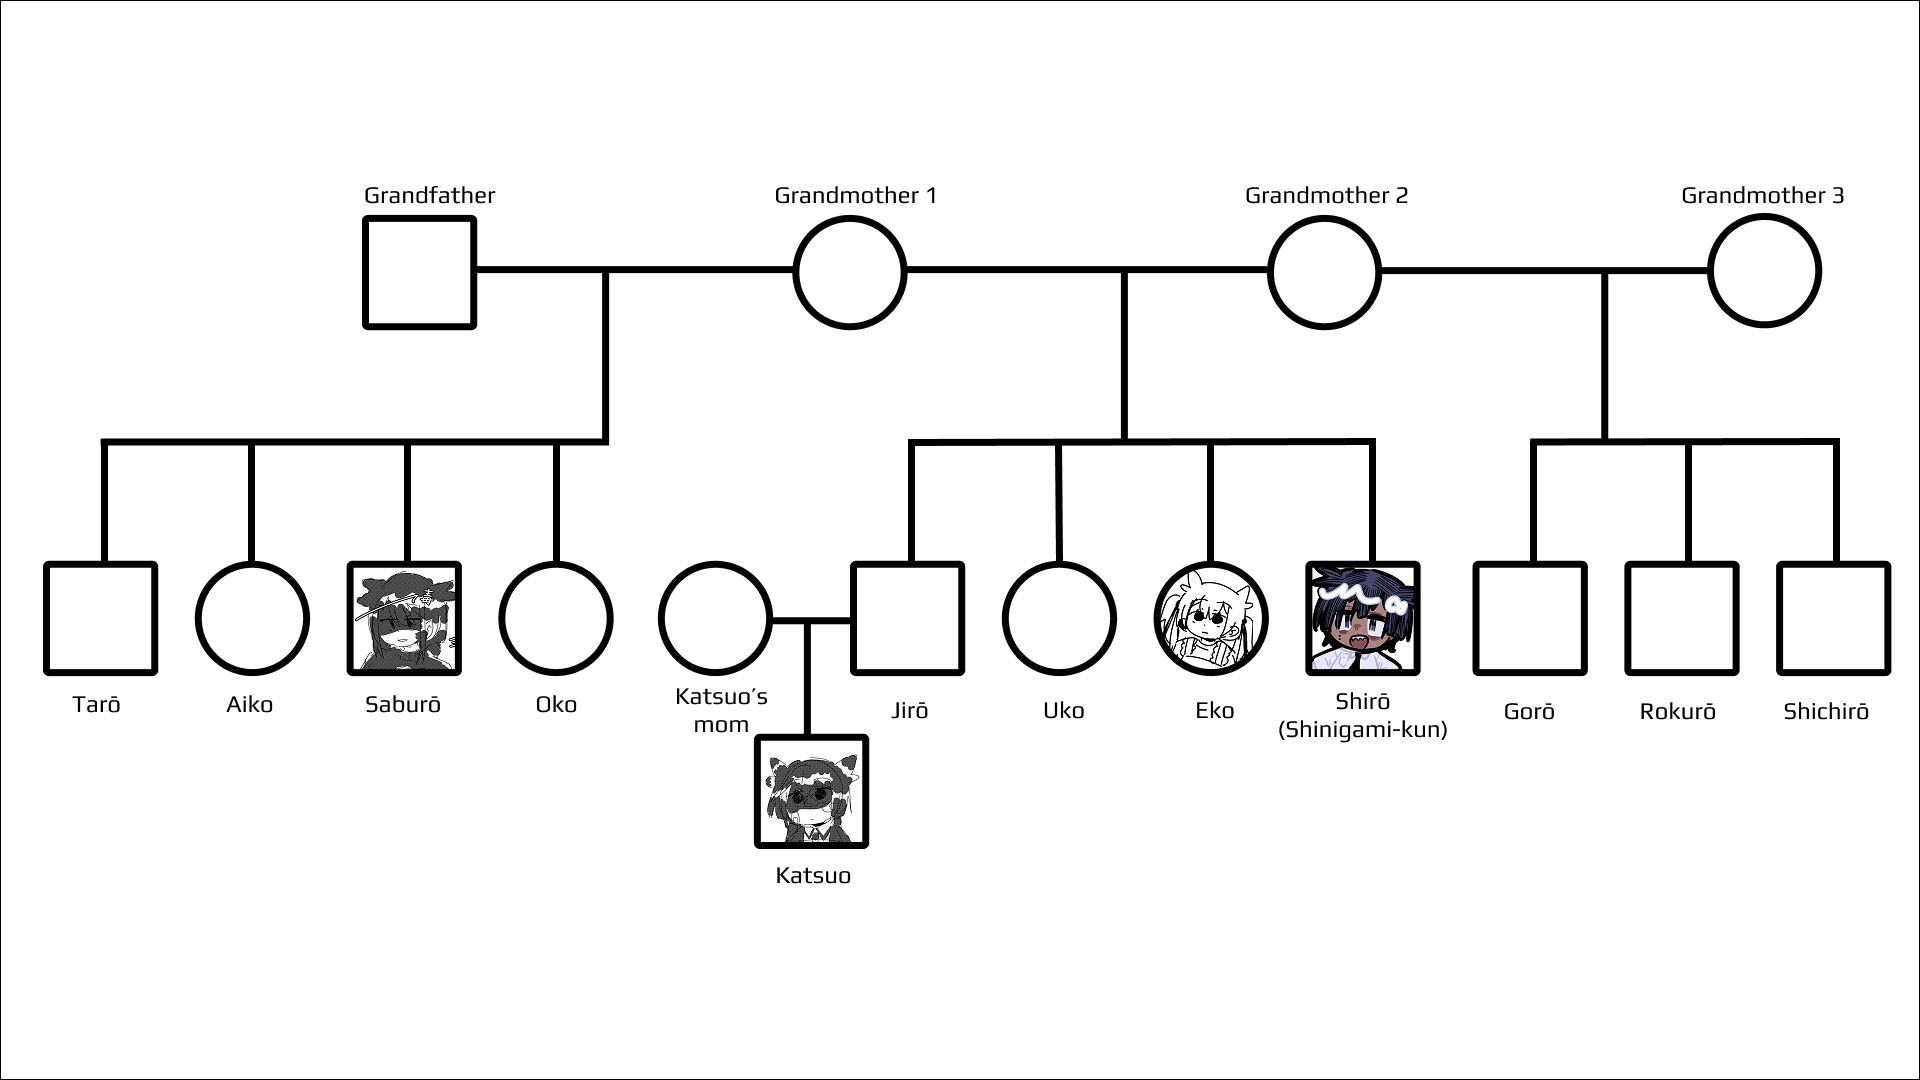
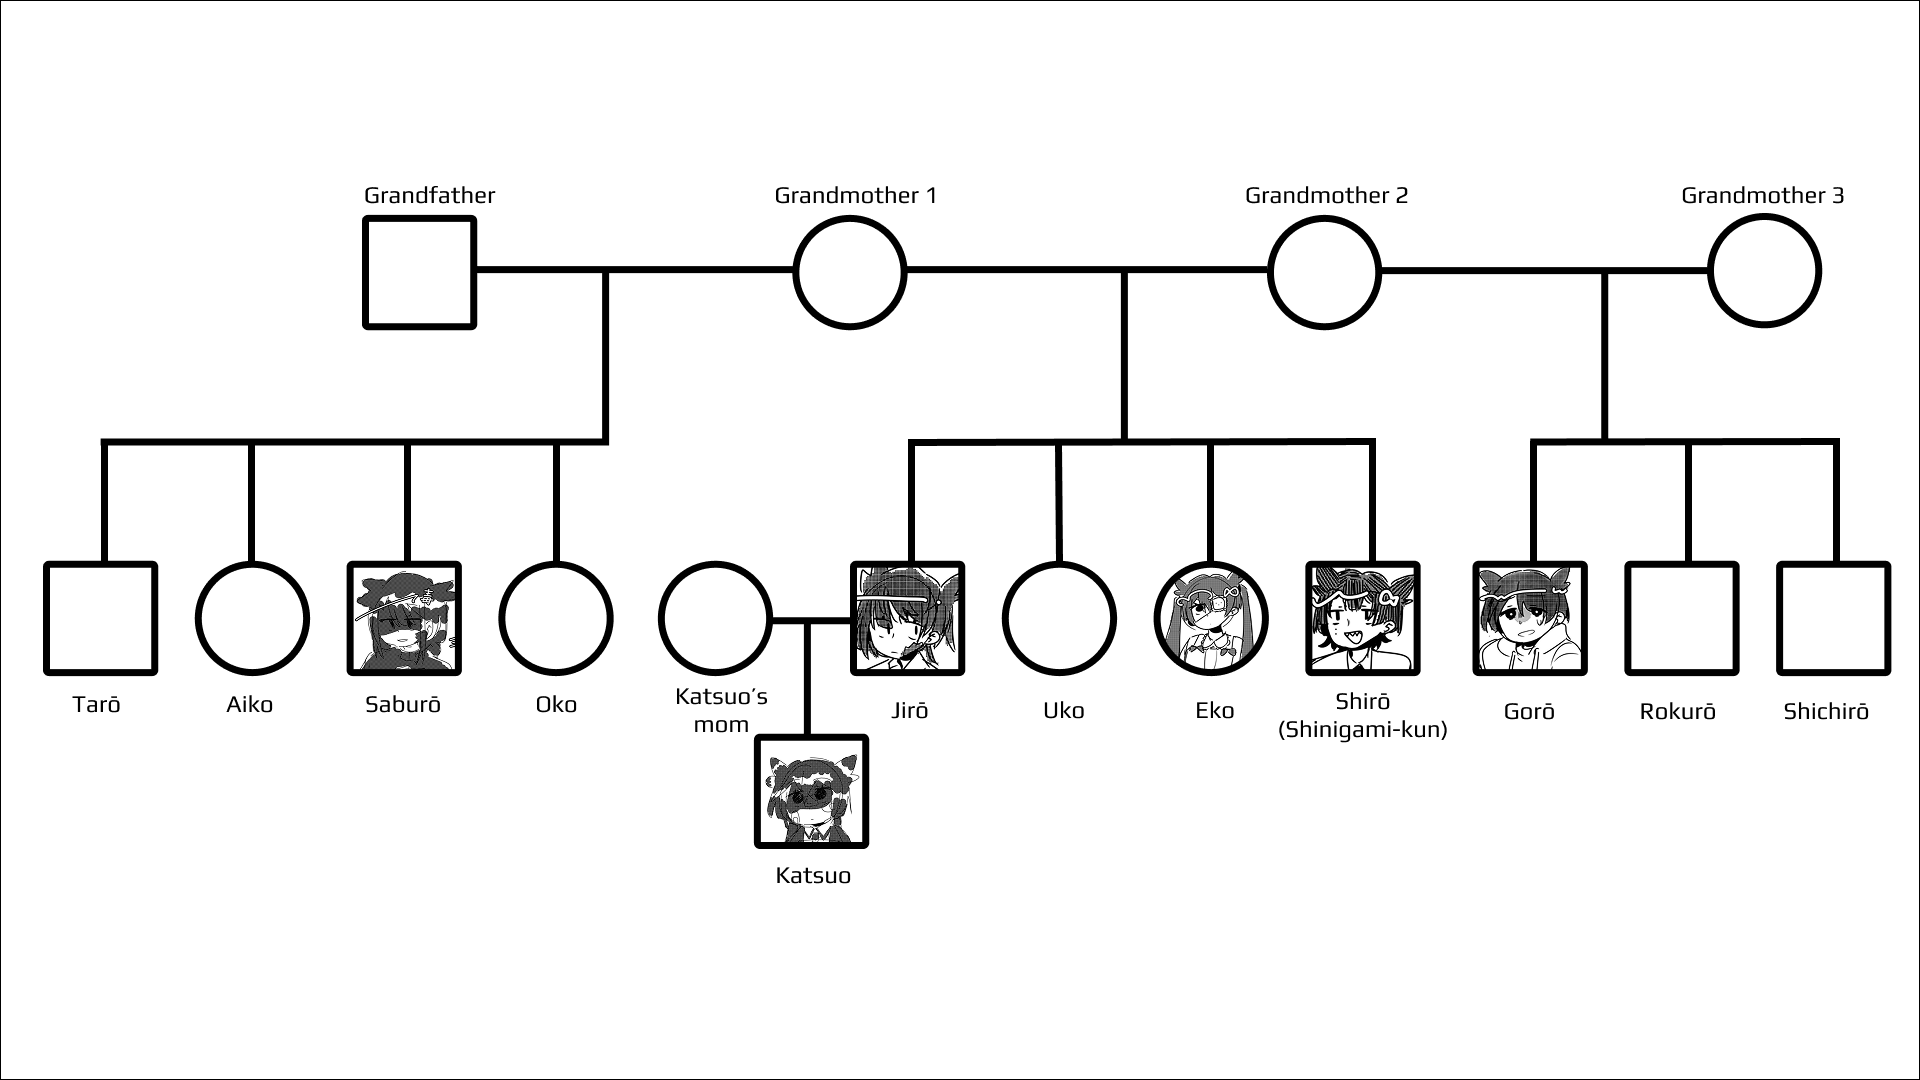
changed appearance and some images

Changed region(s): [[0.6875, 0.5194, 0.8438, 0.6417], [0.5938, 0.5194, 0.6562, 0.6111], [0.4375, 0.5194, 0.5, 0.6111]]

diff --git a/source/content/Characters/The Hiue Family/Saburou Hiue.md b/source/content/Characters/The Hiue Family/Saburou Hiue.md
@@ -1,5 +1,5 @@
 >[!infobox] Saburou Hiue
->![[saburou hiue doodle.PNG]]
+>![[Pasted image 20260403181820.png]]
 ><div class="label">JP Name</div>火上三郎
 ><div class="section">Character Information</div>
 ><div class="label">Jellyfish</div><em>Morbakka virulenta</em>
@@ -16,7 +16,8 @@
 ---
 Compared to his other siblings, Saburou as a jellyfish is longer and has a permanent scar on his bell. 
 
-As a human, he has sharp eyes and a visible "sting" scar starting from his left cheek, spreading down to his neck, top torso, shoulder, forearm, inside of his palm, and on the bottom of his middle and ring finger. The pads of all his fingers are also rather rough, thanks to his work with anthozoans.
+As a human, he has sharp eyes and a visible "sting" scar resembling a "blotch" from his lip to the bottom of his chin. Mostly covered by clothes, he also has another large blotch-like scar on his chest. 
+Additionally pads of all his fingers are also rather rough, thanks to his work with anthozoans.
 
 He has dark, tan skin and long, jet black hair that is typically kept in a braid. As with the other members of the Hiue family, he has two tufts of hair on the top of his head that resemble horns.
 # Personality
@@ -43,10 +44,6 @@ As per the stipulations of their agreement, Saburou spent the evening of his 18t
 
 # Relationships
 --- 
-## [[Tarou Hiue]]
-Saburou grew up thinking his brother too overly idealistic to complete what he set out to do, but nonetheless still respected him for sticking to his own truth. Though he never truly believed that Tarou would be able to end the tradition, Shirou opted to help him deal with their siblings in exchange for his protection- deciding that he'd have the best chance of any actual partnership with Tarou.
-
-Out of anyone in the family, Saburou considered Tarou the most trustworthy.
 
 ## [[Shinigami kun]]
 
